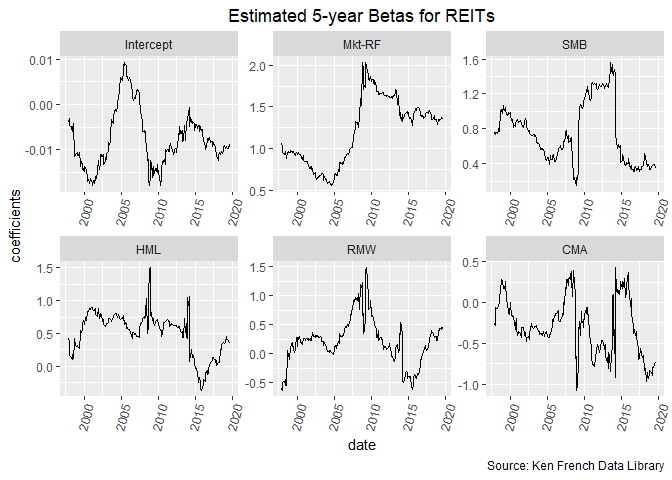
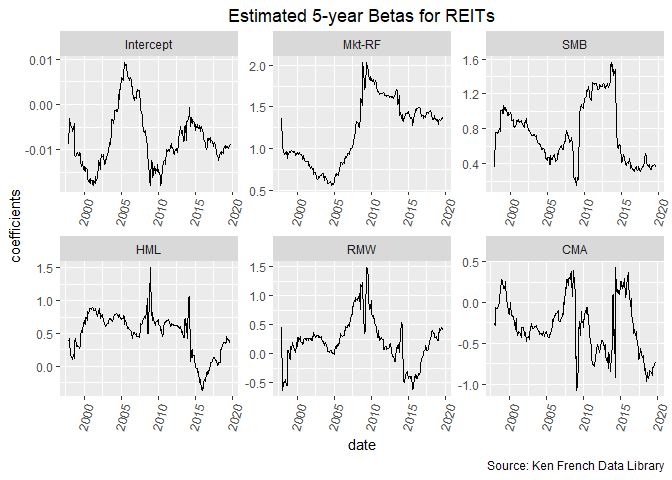
Fix some problem with rolling window. Second Pass regression and cook's distance

diff --git a/Sector.md b/Sector.md
@@ -27,3 +27,14 @@ Full Sample Second-Pass Fama Macbeth
 ====================================
 
 ![](Sector_files/figure-markdown_github/unnamed-chunk-7-1.png)![](Sector_files/figure-markdown_github/unnamed-chunk-7-2.png)
+
+With the Cook's Distance estimation, REITs does not seem to pull the factor premium estimation of the second pass Fama Macbeth.
+
+Rolling-Window Second-Pass Fama Macbeth
+=======================================
+
+Here, I would apply the 5-year rolling window to estimate the betas and use them to calculate the lambdas for the following month.
+
+![](Sector_files/figure-markdown_github/unnamed-chunk-8-1.png)![](Sector_files/figure-markdown_github/unnamed-chunk-8-2.png)
+
+Even with Rolling Windows, the Cook's Distance estimation shows that REITs does not seem to pull the factor premium estimation of the second pass Fama Macbeth.
